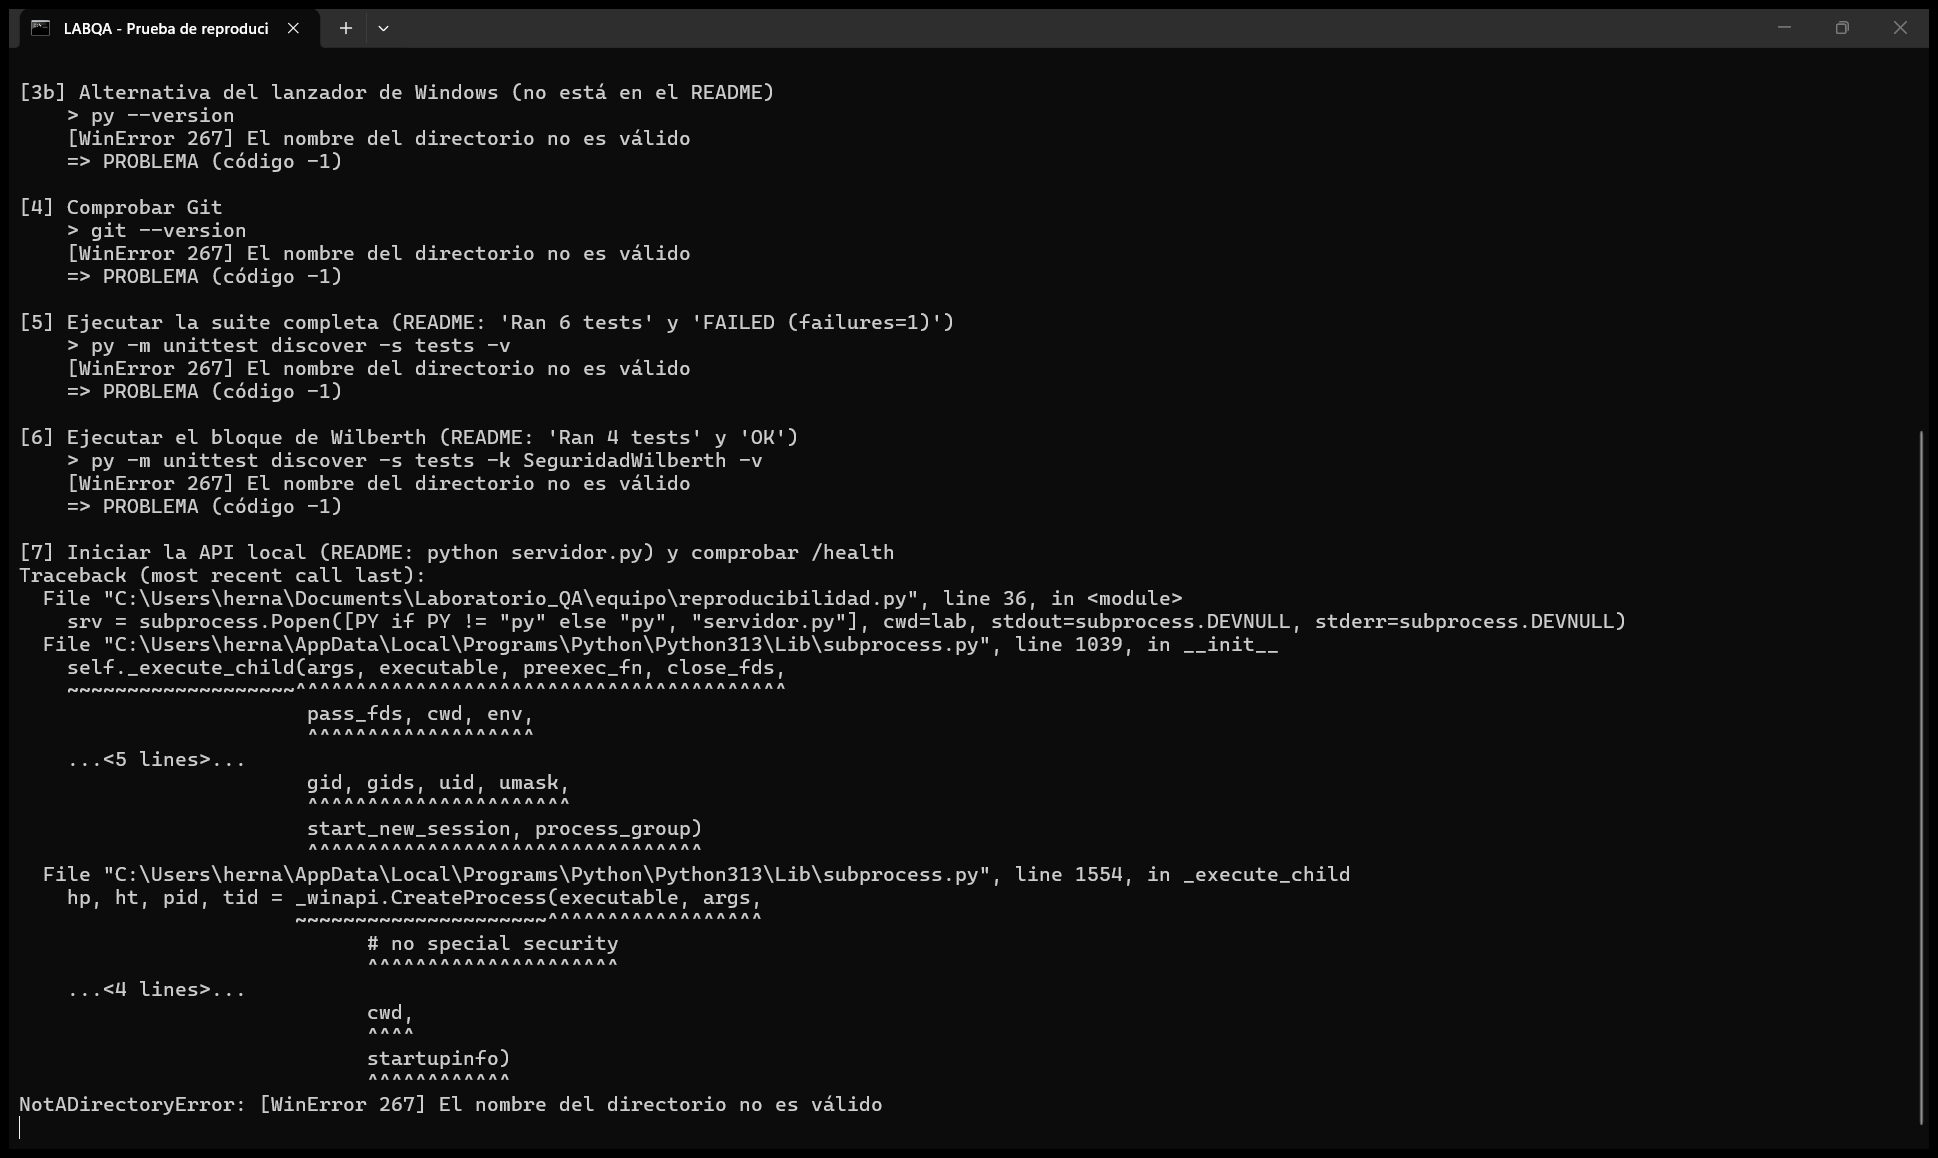
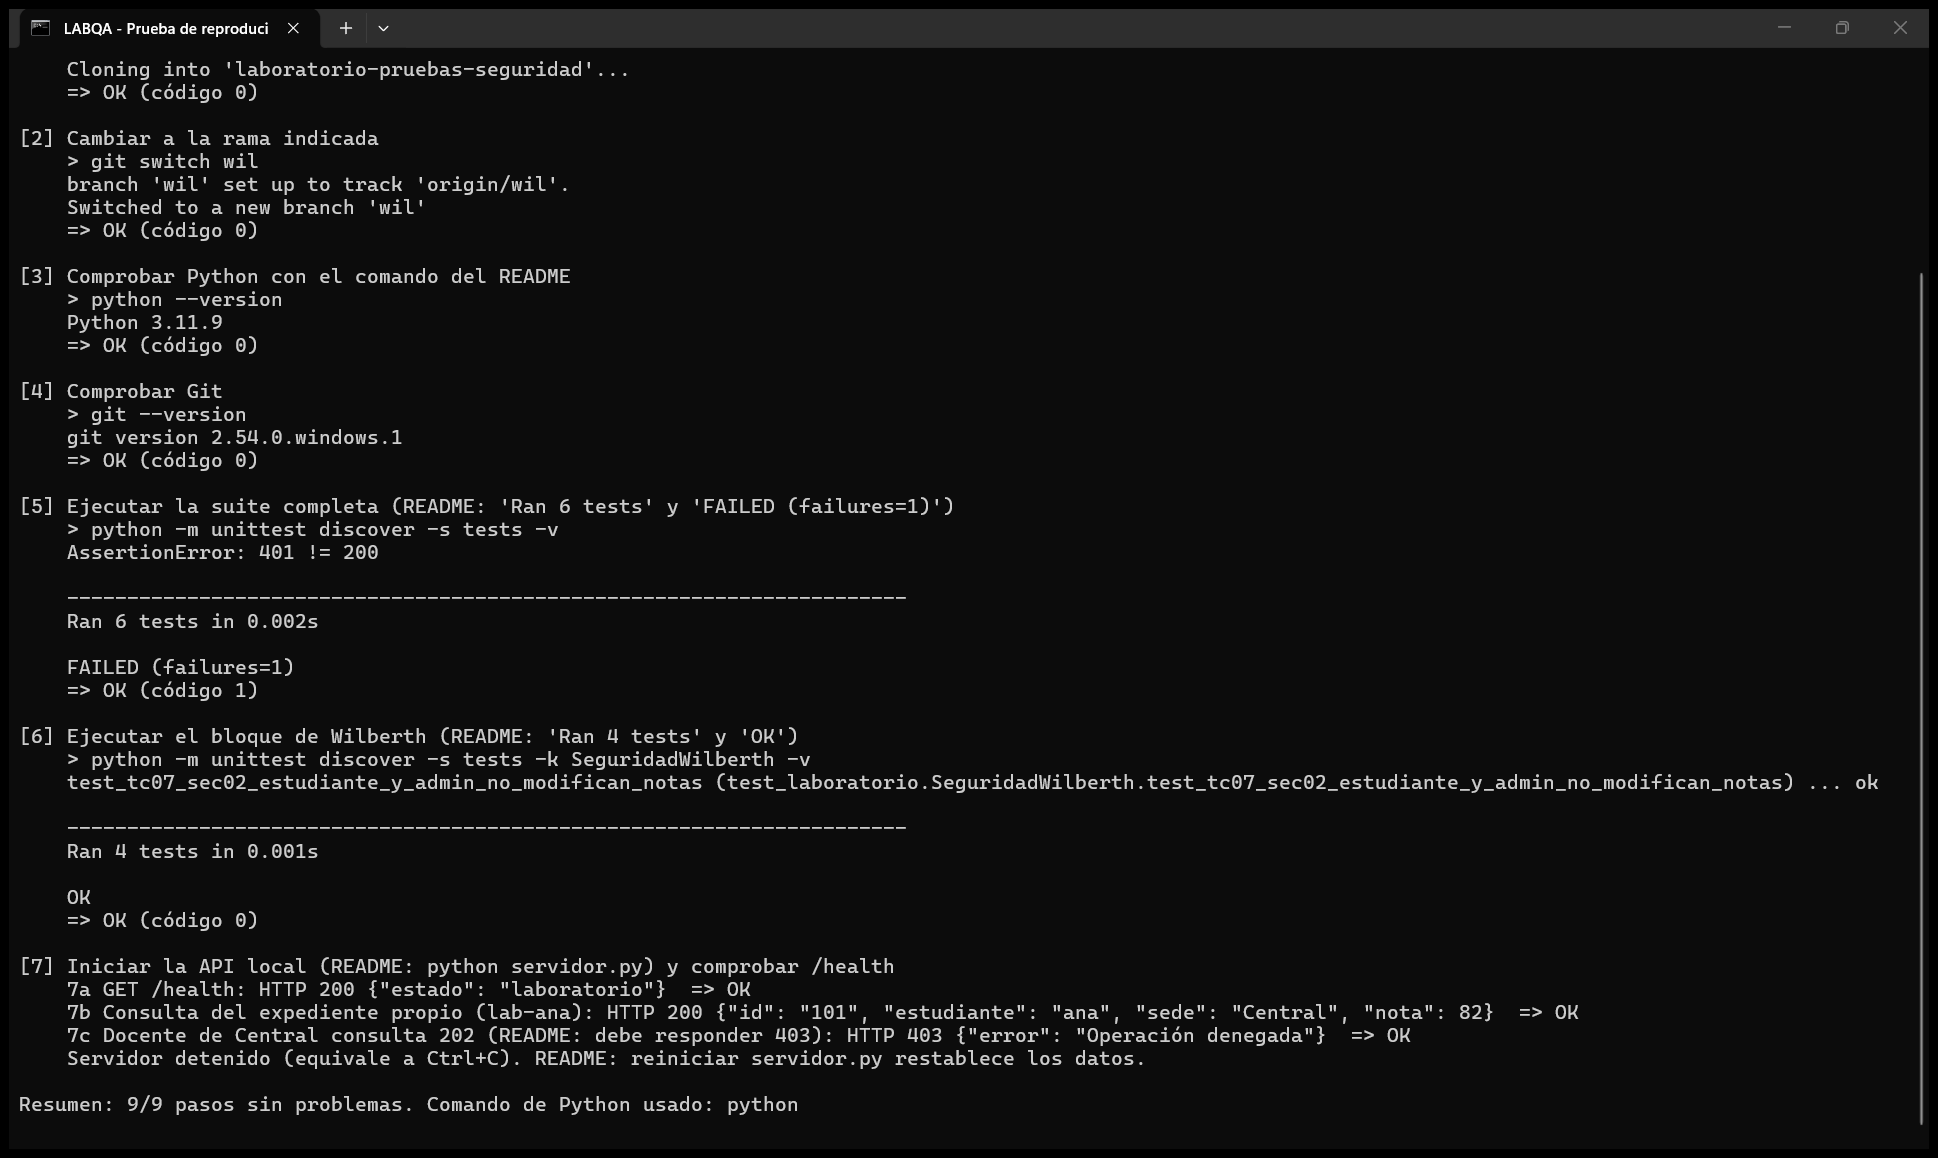
docs: repetir prueba de reproducibilidad tras fallo de red en el primer intento

diff --git a/entrega/evidencias/reproducibilidad_jania.md b/entrega/evidencias/reproducibilidad_jania.md
@@ -1,0 +1,30 @@
+# Prueba de reproducibilidad con el README (§7.5)
+
+| Campo | Registro |
+| --- | --- |
+| Ejecutora | Jania Hernández Dormuz (no es autora de la suite de Wilberth) |
+| Fecha y entorno | 27/10/2026 · Windows · Python 3.13.14 · Git para Windows · clon nuevo en una carpeta vacía |
+| Procedimiento | Clonar, seguir **solo** `entrega/laboratorio_seguridad/README.md` (rama `wil`), ejecutar la suite y el bloque de Wilberth, iniciar la API, consultarla y detenerla. Script: `reproducibilidad.py`; [salida](reproducibilidad_jania.txt), [captura](reproducibilidad_jania.png), [datos](reproducibilidad_jania.json) |
+| ¿Los pasos del README fueron suficientes? | Sí: 9 de 9 pasos dieron el resultado indicado |
+
+| Paso | Descripción | Comando | Resultado |
+| --- | --- | --- | --- |
+| 1 | Clonar el repositorio (README: Requisitos e instalación), intento 1 | `git clone https://github.com/WGuillenDev/laboratorio-pruebas-seguridad.git` | Sin problemas |
+| 2 | Cambiar a la rama indicada | `git switch wil` | Sin problemas |
+| 3 | Comprobar Python con el comando del README | `python --version` | Sin problemas |
+| 4 | Comprobar Git | `git --version` | Sin problemas |
+| 5 | Ejecutar la suite completa (README: 'Ran 6 tests' y 'FAILED (failures=1)') | `python -m unittest discover -s tests -v` | Sin problemas |
+| 6 | Ejecutar el bloque de Wilberth (README: 'Ran 4 tests' y 'OK') | `python -m unittest discover -s tests -k SeguridadWilberth -v` | Sin problemas |
+| 7a | GET /health | `curl.exe /health` | Sin problemas |
+| 7b | Consulta del expediente propio (lab-ana) | `curl.exe /expedientes/101` | Sin problemas |
+| 7c | Docente de Central consulta 202 (README: debe responder 403) | `curl.exe /expedientes/202` | Sin problemas |
+
+## Dificultades encontradas
+
+- **Primer intento (27/10/2026): fallo del entorno, no del README.** Al clonar, Windows no pudo resolver `github.com` (`Could not resolve host`) por una caída momentánea de internet, y los pasos siguientes no pudieron ejecutarse. Se conserva como [reproducibilidad_jania_intento1.txt](reproducibilidad_jania_intento1.txt) y se repitió la prueba con la red estable.
+
+- El README indica `git switch wil`. Cuando `wil` y `jania` se integren en `main`, esa instrucción y los resultados esperados (6 pruebas, 1 fallo) tendrán que actualizarse.
+
+## Cambios propuestos al README
+
+- Tras integrar las ramas, cambiar `git switch wil` por `main` y actualizar el resultado esperado de la suite (9 pruebas, OK).
